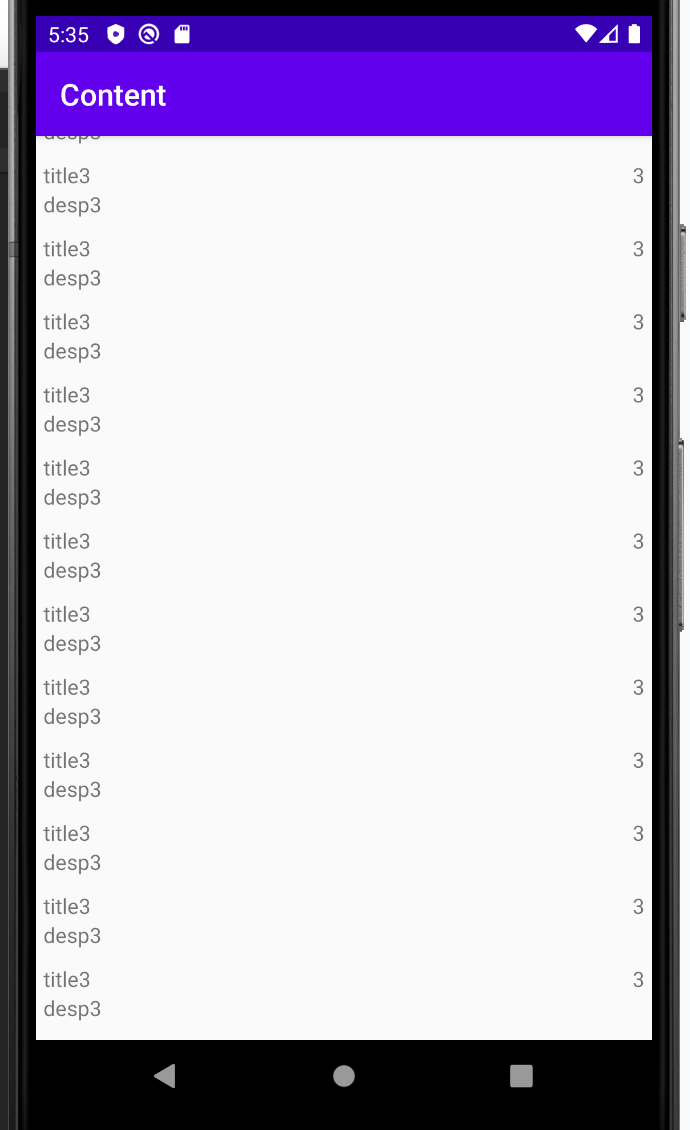
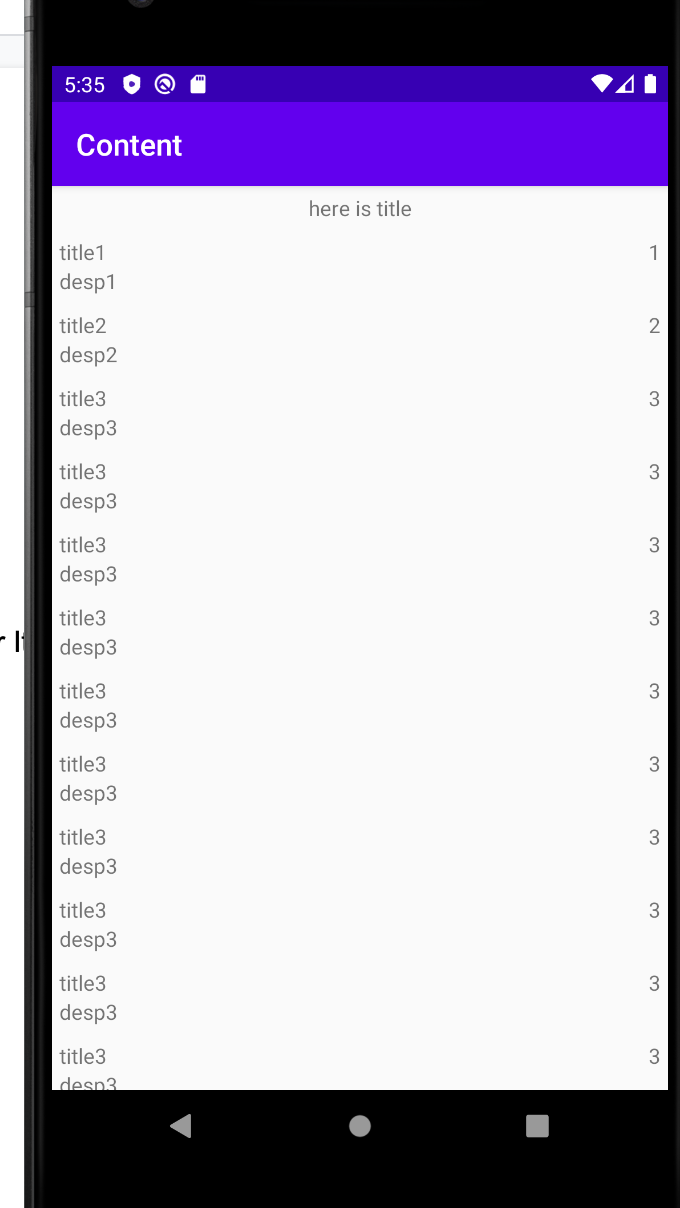
feat: header item view

Changed region(s): [[0.0, 0.0, 1.0, 1.0]]

diff --git a/app/src/main/java/com/thoughtworks/recyclerview/ContentActivity.java b/app/src/main/java/com/thoughtworks/recyclerview/ContentActivity.java
@@ -35,25 +35,26 @@ public class ContentActivity extends AppCompatActivity {
     }
 
     private void createData() {
-        this.data.add(new Data("title1", "desp1", 1));
-        this.data.add(new Data("title2", "desp2", 2));
-        this.data.add(new Data("title3", "desp3", 3));
-        this.data.add(new Data("title3", "desp3", 3));
-        this.data.add(new Data("title3", "desp3", 3));
-        this.data.add(new Data("title3", "desp3", 3));
-        this.data.add(new Data("title3", "desp3", 3));
-        this.data.add(new Data("title3", "desp3", 3));
-        this.data.add(new Data("title3", "desp3", 3));
-        this.data.add(new Data("title3", "desp3", 3));
-        this.data.add(new Data("title3", "desp3", 3));
-        this.data.add(new Data("title3", "desp3", 3));
-        this.data.add(new Data("title3", "desp3", 3));
-        this.data.add(new Data("title3", "desp3", 3));
-        this.data.add(new Data("title3", "desp3", 3));
-        this.data.add(new Data("title3", "desp3", 3));
-        this.data.add(new Data("title3", "desp3", 3));
-        this.data.add(new Data("title3", "desp3", 3));
-        this.data.add(new Data("title3", "desp3", 3));
+        this.data.add(new Data(Data.DataType.Header, "here is title", null, 0));
+        this.data.add(new Data(Data.DataType.Data ,"title1", "desp1", 1));
+        this.data.add(new Data(Data.DataType.Data ,"title2", "desp2", 2));
+        this.data.add(new Data(Data.DataType.Data ,"title3", "desp3", 3));
+        this.data.add(new Data(Data.DataType.Data ,"title3", "desp3", 3));
+        this.data.add(new Data(Data.DataType.Data ,"title3", "desp3", 3));
+        this.data.add(new Data(Data.DataType.Data ,"title3", "desp3", 3));
+        this.data.add(new Data(Data.DataType.Data ,"title3", "desp3", 3));
+        this.data.add(new Data(Data.DataType.Data ,"title3", "desp3", 3));
+        this.data.add(new Data(Data.DataType.Data ,"title3", "desp3", 3));
+        this.data.add(new Data(Data.DataType.Data ,"title3", "desp3", 3));
+        this.data.add(new Data(Data.DataType.Data ,"title3", "desp3", 3));
+        this.data.add(new Data(Data.DataType.Data ,"title3", "desp3", 3));
+        this.data.add(new Data(Data.DataType.Data ,"title3", "desp3", 3));
+        this.data.add(new Data(Data.DataType.Data ,"title3", "desp3", 3));
+        this.data.add(new Data(Data.DataType.Data ,"title3", "desp3", 3));
+        this.data.add(new Data(Data.DataType.Data ,"title3", "desp3", 3));
+        this.data.add(new Data(Data.DataType.Data ,"title3", "desp3", 3));
+        this.data.add(new Data(Data.DataType.Data ,"title3", "desp3", 3));
+        this.data.add(new Data(Data.DataType.Data ,"title3", "desp3", 3));
 
     }
 }

diff --git a/app/src/main/java/com/thoughtworks/recyclerview/MyAdaptor.java b/app/src/main/java/com/thoughtworks/recyclerview/MyAdaptor.java
@@ -9,7 +9,7 @@ import androidx.recyclerview.widget.RecyclerView;
 
 import java.util.ArrayList;
 
-public class MyAdaptor extends RecyclerView.Adapter<MyViewHodler> {
+public class MyAdaptor extends RecyclerView.Adapter<MyViewHolder> {
 
     private ArrayList<Data> data;
 
@@ -17,17 +17,27 @@ public class MyAdaptor extends RecyclerView.Adapter<MyViewHodler> {
         this.data = data;
     }
 
+    @Override
+    public int getItemViewType(int position) {
+        return this.data.get(position).type.type;
+    }
+
     @NonNull
     @Override
-    public MyViewHodler onCreateViewHolder(@NonNull ViewGroup parent, int viewType) {
+    public MyViewHolder onCreateViewHolder(@NonNull ViewGroup parent, int viewType) {
+        if (Data.DataType.Header.type == viewType) {
+            View itemView = LayoutInflater.from(parent.getContext()).inflate(R.layout.activity_item_header, parent, false);
+            return new HeaderViewHolder(itemView);
+        } else {
+            View itemView = LayoutInflater.from(parent.getContext()).inflate(R.layout.activity_item, parent, false);
+            return new DataViewHolder(itemView);
+        }
 
-        View itemView = LayoutInflater.from(parent.getContext()).inflate(R.layout.activity_item, parent, false);
-        return new MyViewHodler(itemView);
 
     }
 
     @Override
-    public void onBindViewHolder(@NonNull MyViewHodler holder, int position) {
+    public void onBindViewHolder(@NonNull MyViewHolder holder, int position) {
         Data data = this.data.get(position);
         holder.setData(data);
     }

diff --git a/app/src/main/java/com/thoughtworks/recyclerview/DataViewHolder.java b/app/src/main/java/com/thoughtworks/recyclerview/DataViewHolder.java
@@ -4,16 +4,14 @@ import android.view.View;
 import android.widget.TextView;
 
 import androidx.annotation.NonNull;
-import androidx.recyclerview.widget.RecyclerView;
 
-public class MyViewHodler extends RecyclerView.ViewHolder {
-
+public class DataViewHolder extends MyViewHolder {
 
     private final TextView title;
     private final TextView number;
     private final TextView description;
 
-    public MyViewHodler(@NonNull View itemView) {
+    public DataViewHolder(@NonNull View itemView) {
         super(itemView);
         this.number = itemView.findViewById(R.id.item_number);
         this.title = itemView.findViewById(R.id.item_title);

diff --git a/app/src/main/java/com/thoughtworks/recyclerview/Data.java b/app/src/main/java/com/thoughtworks/recyclerview/Data.java
@@ -1,13 +1,27 @@
 package com.thoughtworks.recyclerview;
 
 public class Data {
+    DataType type;
     public String title;
     public String description;
     public int number;
 
-    public Data(String title, String description, int number) {
+    public Data(DataType type, String title, String description, int number) {
+        this.type = type;
         this.title = title;
         this.description = description;
         this.number = number;
+    }
+
+
+    enum DataType {
+        Header(0),
+        Data(1);
+
+        int type;
+
+        DataType(int type) {
+            this.type = type;
+        }
     }
 }

diff --git a/app/src/main/java/com/thoughtworks/recyclerview/HeaderViewHolder.java b/app/src/main/java/com/thoughtworks/recyclerview/HeaderViewHolder.java
@@ -1,0 +1,22 @@
+package com.thoughtworks.recyclerview;
+
+import android.view.View;
+import android.widget.TextView;
+
+import androidx.annotation.NonNull;
+
+public class HeaderViewHolder extends MyViewHolder {
+
+    private final TextView title;
+
+
+    public HeaderViewHolder(@NonNull View itemView) {
+        super(itemView);
+        this.title = itemView.findViewById(R.id.item_title);
+    }
+
+    public void setData(Data data) {
+        this.title.setText(data.title);
+    }
+
+}

diff --git a/app/src/main/java/com/thoughtworks/recyclerview/MyViewHolder.java b/app/src/main/java/com/thoughtworks/recyclerview/MyViewHolder.java
@@ -1,0 +1,21 @@
+package com.thoughtworks.recyclerview;
+
+import android.view.View;
+import android.widget.TextView;
+
+import androidx.annotation.NonNull;
+import androidx.recyclerview.widget.RecyclerView;
+
+
+
+public abstract class MyViewHolder extends RecyclerView.ViewHolder {
+
+    public MyViewHolder(@NonNull View itemView) {
+        super(itemView);
+    }
+
+    public abstract void setData(Data data);
+
+}
+
+

diff --git a/readme.md b/readme.md
@@ -1,2 +1,1 @@
 ![](recycler_run.png)
-![](recycler_code.png)
